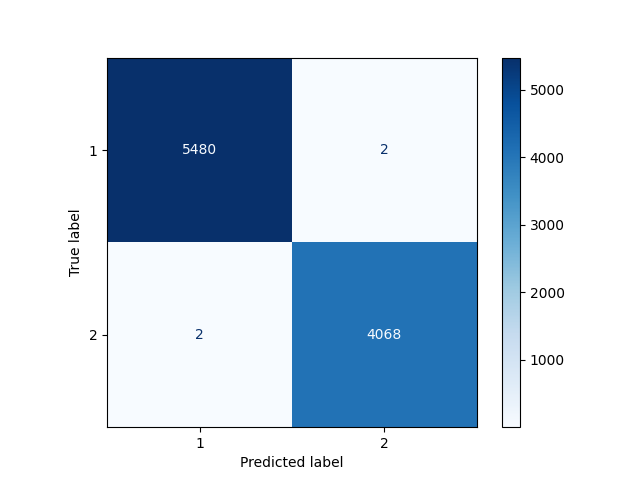
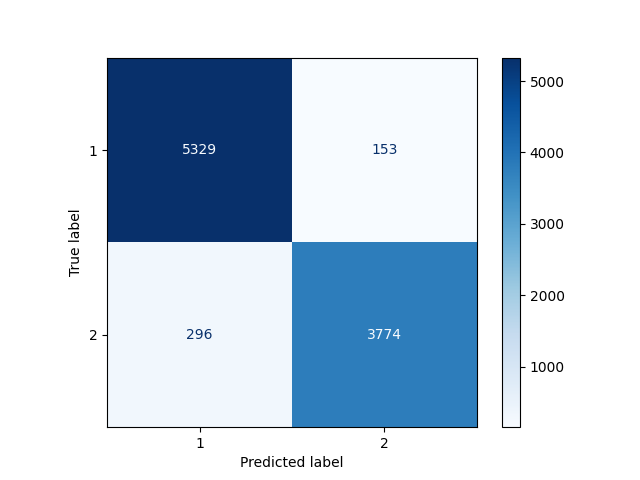
clf script May 31

diff --git a/src/sermons_clf.py b/src/sermons_clf.py
@@ -3,26 +3,27 @@ import openpyxl
 # system tools
 import os
 import sys
-sys.path.append(".") # necessary if I don't use utils?
+sys.path.append(".")
 # data munging tools
 import pandas as pd
 # Machine learning stuff
-from sklearn.feature_extraction.text import CountVectorizer#, TfidfVectorizer
-from sklearn.linear_model import LogisticRegression
+from sklearn.feature_extraction.text import CountVectorizer
 from sklearn.neural_network import MLPClassifier
-from sklearn.model_selection import train_test_split, ShuffleSplit
+from sklearn.model_selection import train_test_split
 from sklearn import metrics
 # save model and vectorizer
-from joblib import dump, load
+from joblib import dump
 # Visualisation
 import matplotlib.pyplot as plt
 
-def get_data():
+sermon_path = os.path.join("..", "..", "768706", "data", "content.dat")
+#sermon_path = os.path.join("..", "768706", "data", "content.dat")
+meta_sermon_path = os.path.join("..", "..", "768706", "metadata", "Joined_Meta.xlsx")
+#meta_path = os.path.join("..", "768706", "metadata", "Joined_Meta.xlsx")
+
+def get_data(data_path, meta_path):
     # load sermons data
-    sermon_path = os.path.join("..", "..", "768706", "data", "content.dat")
     data = pd.read_csv(sermon_path, index_col=0) 
-    # load metadata
-    meta_path = os.path.join("..", "..", "768706", "metadata", "Joined_Meta.xlsx")
     meta = pd.read_excel(meta_path)
     # merge on document IDs
     full_data = data.merge(meta, left_on="id", right_on="ID-dok")
@@ -31,20 +32,21 @@ def get_data():
     y = full_data["køn"]
     labels = ["male", "female"]
     # train-test split
-    X_train, X_test, y_train, y_test = train_test_split(X,           # texts for the model
-                                                        y,          # classification labels
+    X_train, X_test, y_train, y_test = train_test_split(X, # texts for the model
+                                                        y, # classification labels
                                                         test_size=0.2,   # create an 80/20 split
                                                         random_state=42) # random state for reproducibility
-    
+    print("Data prepared!")
+
     return X_train, X_test, y_train, y_test, labels
 
 def sermon_vectorizer(X_train, X_test):
     # create vectorizer object using a bag-of-words model
-    vectorizer = CountVectorizer(ngram_range = (1,2),     # unigrams and bigrams (1 word (e.g. York) and 2 word (e.g. New York) units)
-                                lowercase =  True,       # make everything lower case
-                                max_df = 0.95,           # remove very common words
-                                min_df = 0.05,           # remove very rare words
-                                max_features = 100)      # keep only top 100 features
+    vectorizer = CountVectorizer(ngram_range = (1,2), # unigrams and bigrams (1 word (e.g. York) and 2 word (e.g. New York) units)
+                                lowercase =  True, # make everything lower case
+                                max_df = 0.95, # remove very common words
+                                min_df = 0.05, # remove very rare words
+                                max_features = 100) # keep only top 100 features
     # fit vectorizer to training data
     X_train_feats = vectorizer.fit_transform(X_train)
     # transform test data
@@ -59,50 +61,49 @@ def sermon_vectorizer(X_train, X_test):
     return X_train_feats, X_test_feats, vectorizer, feature_names
 
 def sermon_classifier(X_train_feats, X_test_feats, y_train, y_test, labels):
-    classifier = MLPClassifier(activation = "logistic",
+    # set up a MLPClassifier
+    classifier = MLPClassifier(activation = "relu",
                            hidden_layer_sizes = (30, 10), # number of notes in hidden layers 
-                           max_iter=1000,
+                           max_iter=500, # number of iterations
                            random_state = 42)
     # fit data to the classifier
-    classifier.fit(X_train_feats, y_train)
+    history = classifier.fit(X_train_feats, y_train)
     # Get predictions
     y_pred = classifier.predict(X_test_feats)
-    # Evaluation with confusion matrix 
-    confusion_metrix = metrics.ConfusionMatrixDisplay.from_estimator(classifier,# the classifier name
-                                                X_train_feats,          
-                                                y_train,                # the training labels
-                                                cmap=plt.cm.Blues,      # make the colours prettier
-                                                labels=[1, 2])# the labels in your data arranged alphabetically
-    # save confusion metrix
-    metrix_path = os.path.join("out", "confusion_matrix.png")
-    plt.savefig(metrix_path)
-    # clasification report
-    classifier_report = metrics.classification_report(y_test, y_pred, target_names=labels )
-    print(classifier_report)
-    # Save classification report in "out"
-    folder_path = os.path.join("out")
-    file_name = "classificationreport.txt"
-    file_path = os.path.join(folder_path, file_name)
-    with open(file_path, "w") as f: #"writing" classifier report and saving it
-        f.write(classifier_report)
-    print("Classification report saved")
     # save classifier
     clf_outpath = os.path.join("models", "sermon_gender_clf.joblib")
     dump(classifier, clf_outpath)
     print("Trained model saved!")
     
+    # Evaluation with confusion matrix 
+    confusion_metrix = metrics.ConfusionMatrixDisplay.from_estimator(classifier,
+                                                X_train_feats, # the training data features         
+                                                y_train, # the training labels
+                                                cmap=plt.cm.Blues, # set colours
+                                                labels=[1, 2])# the labels in the data arranged
+    # save confusion metrix
+    metrix_path = os.path.join("out", "confusion_matrix.png")
+    plt.savefig(metrix_path)
+    
+    # clasification report
+    classifier_report = metrics.classification_report(y_test, y_pred, target_names=labels )
+    print(classifier_report)
+    # Save classification report in "out"
+    report_path = os.path.join("out", "classificationreport.txt")
+    #"writing" classifier report and saving it
+    with open(report_path, "w") as f: 
+        f.write(classifier_report)
+    print("Classification report saved")
+    
     return classifier, classifier_report
 
 def main():
     # load and prepare data
-    X_train, X_test, y_train, y_test, labels = get_data()
-    print("Data prepared!")
+    X_train, X_test, y_train, y_test, labels = get_data(sermon_path, meta_sermon_path)
     # vectorize data
     X_train_feats, X_test_feats, vectorizer, feature_names = sermon_vectorizer(X_train, X_test)
-    print("Data vectorized!")
     # train classifier model
     classifier, classifier_report = sermon_classifier(X_train_feats, X_test_feats, y_train, y_test, labels)
-    print("Model trained!")
 
 if __name__ == "__main__":
     main()
